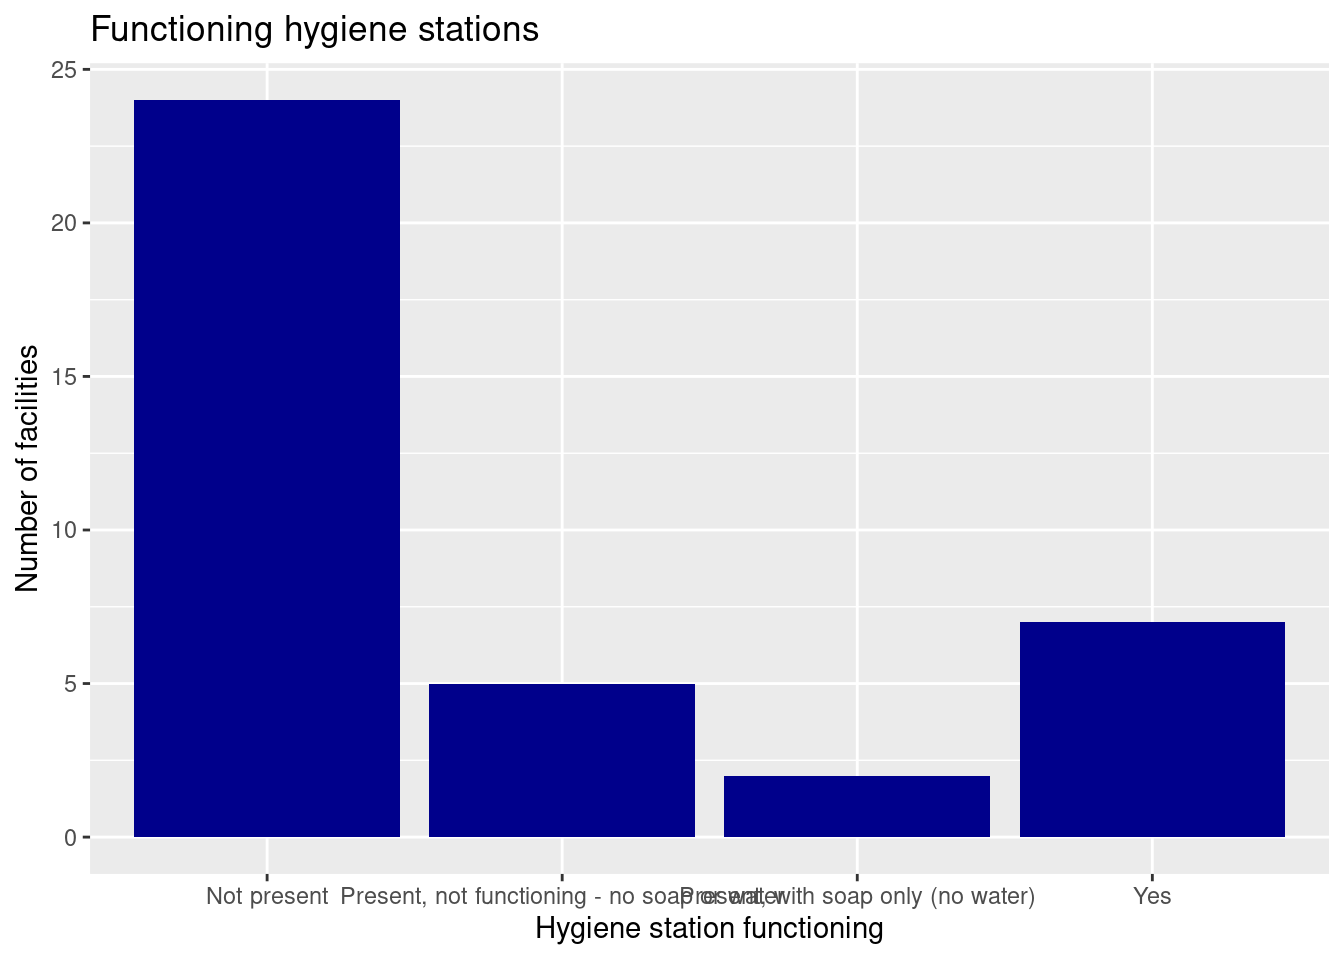
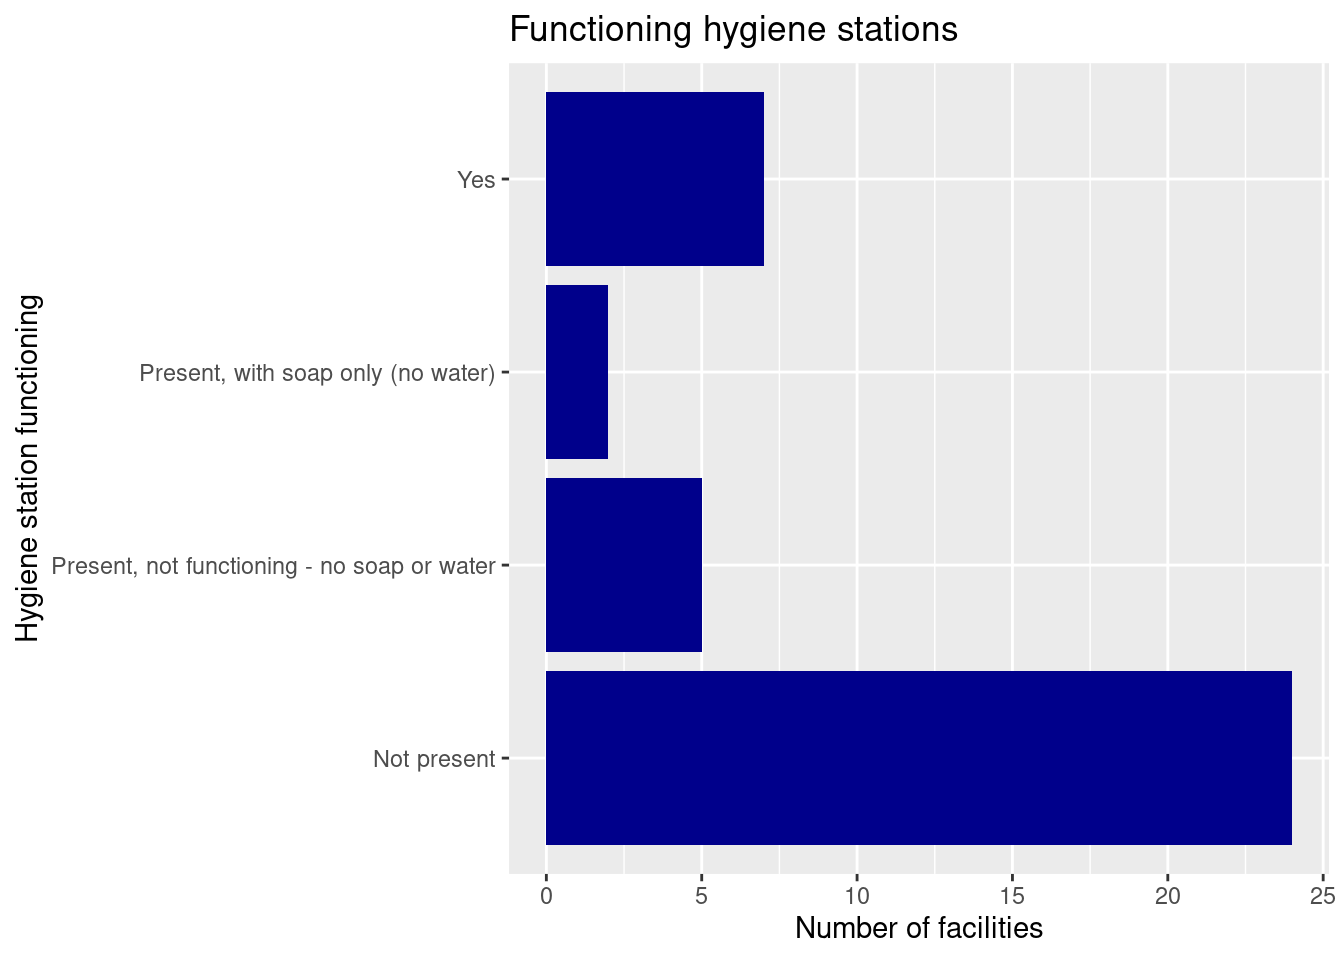
coord flip

diff --git a/docs/index.html b/docs/index.html
@@ -7,7 +7,7 @@
 <meta name="viewport" content="width=device-width, initial-scale=1.0, user-scalable=yes">
 
 <meta name="author" content="Seyram A. Asimah">
-<meta name="dcterms.date" content="2026-01-29">
+<meta name="dcterms.date" content="2026-02-06">
 
 <title>Status of WASH in Health Care Facilities across Four Municipalities, Upper East Region, Ghana</title>
 <style>
@@ -146,7 +146,7 @@ div.csl-indent {
     <div>
     <div class="quarto-title-meta-heading">Published</div>
     <div class="quarto-title-meta-contents">
-      <p class="date">January 29, 2026</p>
+      <p class="date">February 6, 2026</p>
     </div>
   </div>
   
@@ -418,7 +418,7 @@ Figure&nbsp;1: Functioning toilets across facility levels
 <span id="cb7-7"><a href="#cb7-7" aria-hidden="true" tabindex="-1"></a>    <span class="at">title =</span> <span class="st">"Functioning hygiene stations"</span>,</span>
 <span id="cb7-8"><a href="#cb7-8" aria-hidden="true" tabindex="-1"></a>    <span class="at">x =</span> <span class="st">"Hygiene station functioning"</span>,</span>
 <span id="cb7-9"><a href="#cb7-9" aria-hidden="true" tabindex="-1"></a>    <span class="at">y =</span> <span class="st">"Number of facilities"</span></span>
-<span id="cb7-10"><a href="#cb7-10" aria-hidden="true" tabindex="-1"></a>  )</span></code></pre></div><button title="Copy to Clipboard" class="code-copy-button"><i class="bi"></i></button></div>
+<span id="cb7-10"><a href="#cb7-10" aria-hidden="true" tabindex="-1"></a>  ) <span class="sc">+</span> <span class="fu">coord_flip</span>()</span></code></pre></div><button title="Copy to Clipboard" class="code-copy-button"><i class="bi"></i></button></div>
 </details>
 <div class="cell-output-display">
 <div id="fig-functioning-hyg" class="quarto-float quarto-figure quarto-figure-center anchored">
